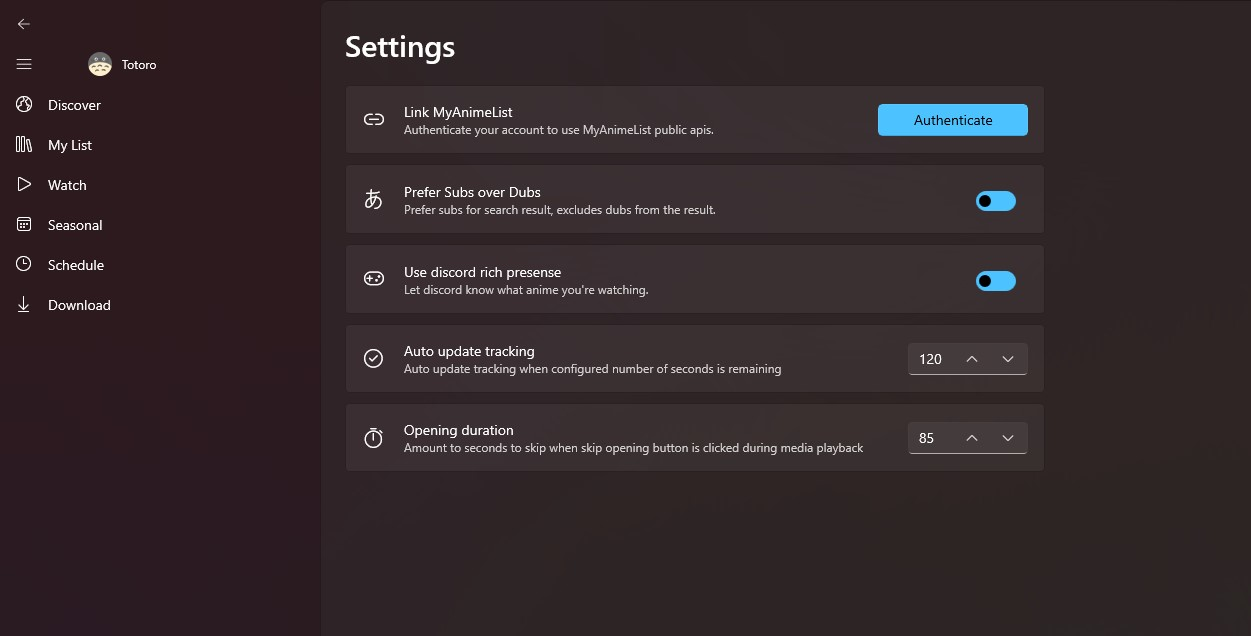
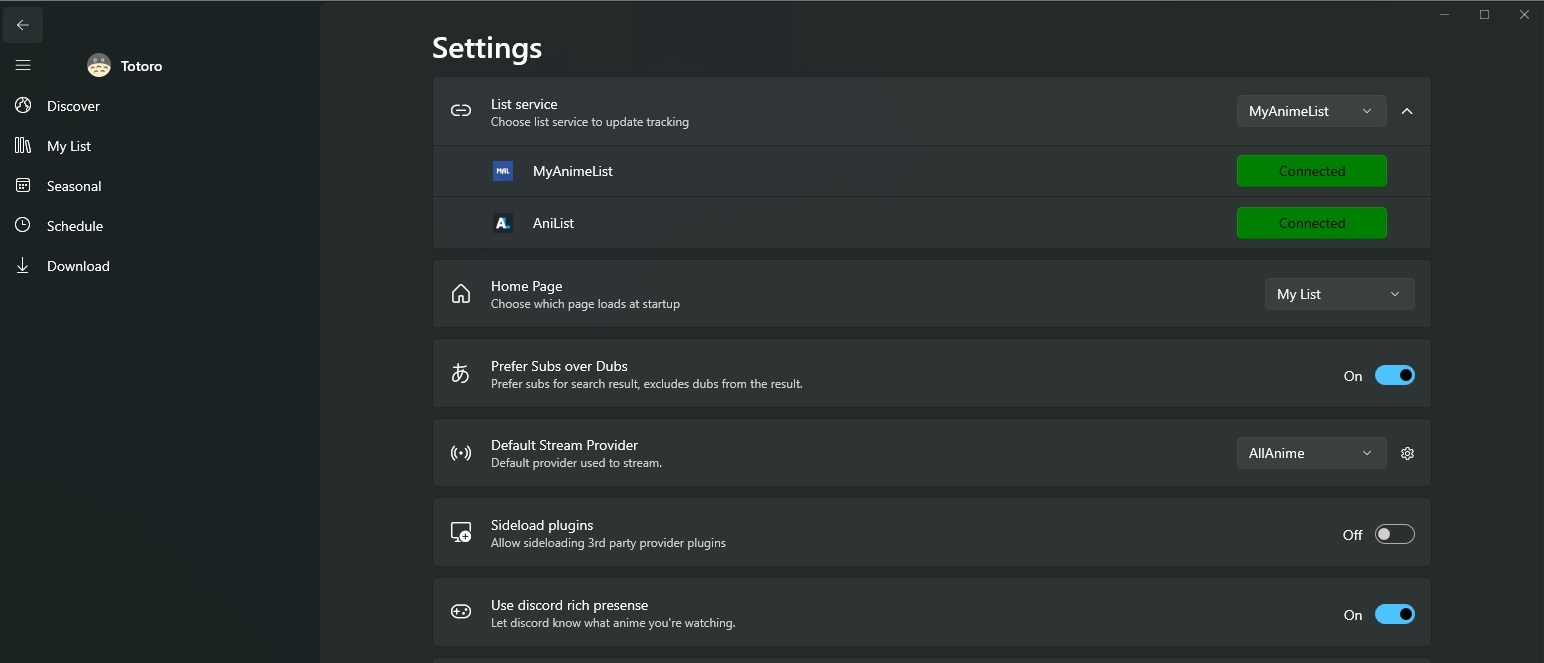
update reademe and images

diff --git a/README.md b/README.md
@@ -31,12 +31,12 @@ Although you can use the application without login in with MyAnimeList, it's the
 ## Features
 - [X] Automatically update tracking while your watching.
     - [X] MyAnimeList
-    - [ ] AniList
+    - [X] AniList
     - [ ] Kitsu
 - [X] Resume video playback from where you last left off.
 - [X] Manually update tracking
     - [X] MyAnimeList
-    - [ ] AniList
+    - [X] AniList
     - [ ] Kitsu
 - [X] Skip openings. 
 - [X] Discord Rich Presense.
